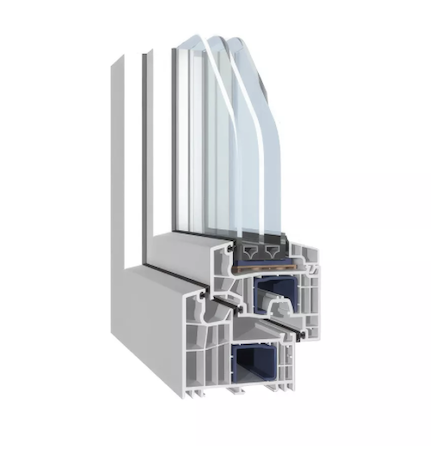
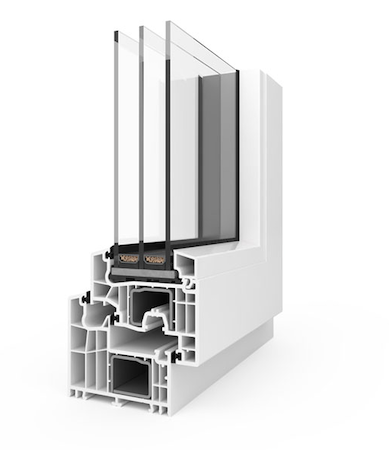
Gealan

Changed region(s): [[0.1542, 0.0311, 0.7404, 0.9333]]

diff --git a/components/ui/gealandiv.js b/components/ui/gealandiv.js
@@ -2,7 +2,7 @@ import { useState, useEffect } from "react";
 import Carousel from "./blocks/carousel";
 import ProductLink from "./blocks/productlink";
 
-function salamanderdiv() {
+function gealandiv() {
   const size = useWindowSize();
 
   function useWindowSize() {
@@ -42,35 +42,34 @@ function salamanderdiv() {
 
       <div className="flex flex-wrap justify-around w-100 ba b--moon-gray ma2 pa3">
         <div className="w-100 w-50-l ma1 pa2">
-          <img src="./pics/profiles/bluevolution_82.png"></img>
+          <img src="./pics/profiles/gealan_s8000.png"></img>
         </div>
         <div className="w-100 w-40-l ma1 pa2 tl">
-          <h5 className="gray">Salamander BluEvolution 82, 6 Kammer, Mitteldichtung</h5>
+          <h5 className="gray">Gealan S8000, 6 Kammer</h5>
           <div className="gray f6 tl">
             <ul>
-              <li>Bautiefe 82 mm</li>
+              <li>Bautiefe 74 mm</li>
               <li>6-Kammer-Profil</li>
-              <li>
-              bis zu Uw = 0,73 W/(m²K)
-              </li>
-              <li>Verglasung: bis 52mm</li>
-              <li>Schallreduzierung um bis zu 47 dB</li>
+             
+              <li>Verglasung: bis 48mm</li>
+           
               <li>hervorragende Energieeinsparung und innovative Dichtungstechnologie</li>
-              <li>umlaufendes Mitteldichtungssystem</li>
+             <li>Große Hauptkammer für die Aufnahme großer Stahlaussteifungen</li>
               <li>
               Einbruchhemmung: bis RC 2
               </li>
+              <li>In zahlreichen Farben verfügbar</li>
             </ul>
           </div>
         </div>
         <div className="w-100 w-50-l ma1 pa2">
-          <img src="./pics/profiles/bluevolution_82_tuer.png"></img>
+          <img src="./pics/profiles/gealan_s8000_tuer.png"></img>
         </div>
 
         <div className="w-100 w-40-l ma1 pa2">
           <img
             style={{ maxWidth: 450, maxHeight: 550 }}
-            src="./pics/sections/bluevolution82.png"
+            src="./pics/sections/s8000.png"
           ></img>
         </div>
       </div>
@@ -79,35 +78,33 @@ function salamanderdiv() {
 
       <div className="flex flex-wrap justify-around w-100 ba b--moon-gray ma2 pa3">
         <div className="w-100 w-50-l ma1 pa2">
-          <img src="./pics/profiles/bluevolution_92.png"></img>
+          <img src="./pics/profiles/gealan_s9000.png"></img>
         </div>
         <div className="w-100 w-40-l ma1 pa2 tl">
-          <h5 className="gray">Salamander BluEvolution 92, 6 Kammer, Mitteldichtung</h5>
+          <h5 className="gray">Gealan S9000, 6 Kammer, Mitteldichtung</h5>
           <div className="gray f6 tl">
             <ul>
-              <li>Bautiefe 92 mm</li>
+              <li>Bautiefe 82,5 mm</li>
               <li>6-Kammer-Profil</li>
-              <li>
-              bis zu Uw = 0,70 W/(m²K)
-              </li>
-              <li>Verglasung: bis 60mm</li>
-              <li>Schallreduzierung um bis zu 47 dB</li>
-              <li>hervorragende Energieeinsparung und innovative Dichtungstechnologie</li>
+              
+              <li>Verglasung: bis 54mm</li>
+              <li>Schallreduzierung um bis zu 46 dB</li>
               <li>umlaufendes Mitteldichtungssystem</li>
               <li>
-              Einbruchhemmung: bis RC 3
+              Einbruchhemmung: bis RC 2
               </li>
+              <li>Schmale sichtbare Breite</li>
             </ul>
           </div>
         </div>
         <div className="w-100 w-50-l ma1 pa2">
-          <img src="./pics/profiles/bluevolution_92_tuer.png"></img>
+          <img src="./pics/profiles/gealan_s9000_tuer.png"></img>
         </div>
 
         <div className="w-100 w-40-l ma1 pa2">
           <img
             style={{ maxWidth: 450, maxHeight: 550 }}
-            src="./pics/sections/bluevolution92.png"
+            src="./pics/sections/s9000.png"
           ></img>
         </div>
       </div>
@@ -123,4 +120,4 @@ function salamanderdiv() {
   );
 }
 
-export default salamanderdiv;
+export default gealandiv;

diff --git a/pages/gealan.js b/pages/gealan.js
@@ -1,0 +1,28 @@
+import { Fragment } from "react";
+import HeaderDiv from "../components/ui/headerdiv";
+import Head from 'next/head';
+import Gealandiv from "../components/ui/gealandiv";
+
+function Gealan() {
+  return (
+    <Fragment>
+      <Head>
+        <title>Gealan Fenster aus Kunststoff</title>
+        <meta
+          name="description"
+          content="Kunststoff Fenster Gealan aus Polen"
+        />
+        <meta
+          name="keywords"
+          content="fenster, kunststofffenster, fenster aus polen, gealan, fenster konfigurator"
+        />
+      </Head>
+      <HeaderDiv title="Gealan Kunststoff Fenster" subtitle="Passivhaus Fenster zum guten Preis"/>
+
+      <Gealandiv />
+
+    </Fragment>
+  );
+}
+
+export default Gealan;

diff --git a/components/ui/fensterdiv.js b/components/ui/fensterdiv.js
@@ -72,7 +72,7 @@ function fensterdiv() {
   }
 
   function gotoGealan(e) {
-    router.push("#")
+    router.push("./gealan")
   }
   function gotoKoemmerling(e) {
     router.push("./koemmerling")
